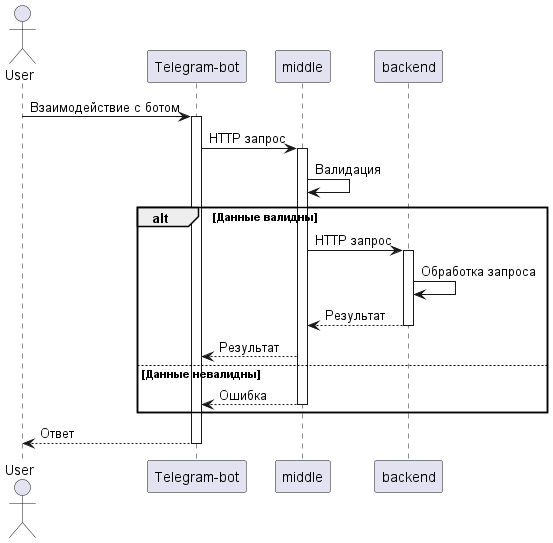
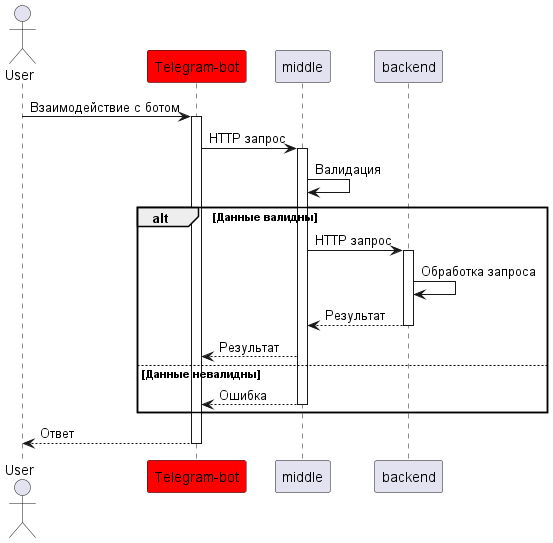
Тесты

Changed region(s): [[0.2459, 0.825, 0.4611, 0.9134], [0.2459, 0.0884, 0.4611, 0.1768]]

diff --git a/src/test/java/ru/omon4412/minibank/command/CreateAccountCommandTest.java b/src/test/java/ru/omon4412/minibank/command/CreateAccountCommandTest.java
@@ -1,0 +1,87 @@
+package ru.omon4412.minibank.command;
+
+import org.junit.jupiter.api.Test;
+import org.junit.jupiter.api.extension.ExtendWith;
+import org.mockito.InjectMocks;
+import org.mockito.Mock;
+import org.mockito.junit.jupiter.MockitoExtension;
+import org.telegram.telegrambots.meta.api.objects.Message;
+import org.telegram.telegrambots.meta.api.objects.Update;
+import org.telegram.telegrambots.meta.api.objects.User;
+import ru.omon4412.minibank.dto.NewAccountDto;
+import ru.omon4412.minibank.model.ResponseResult;
+import ru.omon4412.minibank.model.TelegramMessage;
+import ru.omon4412.minibank.service.MiddleServiceGateway;
+
+import static org.junit.jupiter.api.Assertions.assertEquals;
+import static org.mockito.Mockito.*;
+
+@ExtendWith(MockitoExtension.class)
+class CreateAccountCommandTest {
+    @Mock
+    private MiddleServiceGateway middleServiceGateway;
+
+    @InjectMocks
+    private CreateAccountCommand createAccountCommand;
+
+    @Test
+    void test_ExecuteWithoutUsername() {
+        Update update = mockUpdate(null, "/createaccount На отдых", 1L);
+
+        TelegramMessage result = createAccountCommand.execute(update);
+
+        assertEquals("Для работы с ботом вам нужен telegram username", result.message());
+    }
+
+    @Test
+    void test_ExecuteWithWrongFormat() {
+        Update update = mockUpdate("testuser", "/createaccount", 1L);
+
+        TelegramMessage result = createAccountCommand.execute(update);
+
+        assertEquals("Неправильный формат команды. Используйте: /createaccount [название]", result.message());
+    }
+
+    @Test
+    void test_ExecuteWithEmptyAccountName() {
+        Update update = mockUpdate("testuser", "/createaccount ", 1L);
+
+        TelegramMessage result = createAccountCommand.execute(update);
+
+        assertEquals("Пожалуйста, укажите название счёта.", result.message());
+    }
+
+    @Test
+    void test_ExecuteWithValidData() {
+        Update update = mockUpdate("testuser", "/createaccount На отдых", 1L);
+        ResponseResult responseResult = new ResponseResult(true, "Счёт создан успешно");
+        NewAccountDto newAccountDto = new NewAccountDto();
+        newAccountDto.setAccountName("На отдых");
+        when(middleServiceGateway.createAccount(newAccountDto, 0L))
+                .thenReturn(responseResult);
+
+        TelegramMessage result = createAccountCommand.execute(update);
+
+        assertEquals("Счёт создан успешно", result.message());
+    }
+
+    private Update mockUpdate(String username, String text, Long chatId) {
+        Update update = mock(Update.class);
+        Message message = mock(Message.class);
+        User user = mock(User.class);
+
+        when(update.getMessage()).thenReturn(message);
+        when(message.getFrom()).thenReturn(user);
+        if (username != null) {
+            when(user.getUserName()).thenReturn(username);
+        }
+        if (text != null) {
+            lenient().when(message.getText()).thenReturn(text);
+        }
+        if (chatId != null) {
+            when(message.getChatId()).thenReturn(chatId);
+        }
+
+        return update;
+    }
+}

diff --git a/src/test/java/ru/omon4412/minibank/command/RegisterCommandTest.java b/src/test/java/ru/omon4412/minibank/command/RegisterCommandTest.java
@@ -1,0 +1,73 @@
+package ru.omon4412.minibank.command;
+
+import org.junit.jupiter.api.Test;
+import org.junit.jupiter.api.extension.ExtendWith;
+import org.mockito.InjectMocks;
+import org.mockito.Mock;
+import org.mockito.junit.jupiter.MockitoExtension;
+import org.telegram.telegrambots.meta.api.objects.Message;
+import org.telegram.telegrambots.meta.api.objects.Update;
+import org.telegram.telegrambots.meta.api.objects.User;
+import ru.omon4412.minibank.dto.UserRequestDto;
+import ru.omon4412.minibank.model.ResponseResult;
+import ru.omon4412.minibank.model.TelegramMessage;
+import ru.omon4412.minibank.service.MiddleServiceGateway;
+
+import static org.junit.jupiter.api.Assertions.assertEquals;
+import static org.mockito.ArgumentMatchers.any;
+import static org.mockito.Mockito.*;
+
+@ExtendWith(MockitoExtension.class)
+class RegisterCommandTest {
+    @Mock
+    private MiddleServiceGateway middleServiceGateway;
+
+    @InjectMocks
+    private RegisterCommand registerCommand;
+
+    @Test
+    void test_ExecuteWithValidUsername() {
+        Update update = mockUpdate("testuser", 1L);
+        UserRequestDto userRequestDto = new UserRequestDto();
+        userRequestDto.setUserId(1L);
+        userRequestDto.setUserName("testuser");
+        ResponseResult responseResult = new ResponseResult(true, "Вы зарегистрированы!");
+
+        when(middleServiceGateway.registerUser(any(UserRequestDto.class))).thenReturn(responseResult);
+
+        TelegramMessage result = registerCommand.execute(update);
+
+        assertEquals("Вы зарегистрированы!", result.message());
+        verify(middleServiceGateway, times(1)).registerUser(any(UserRequestDto.class));
+    }
+
+    @Test
+    void test_ExecuteWithoutUsername() {
+        Update update = mockUpdate(null, 1L);
+
+        TelegramMessage result = registerCommand.execute(update);
+
+        assertEquals("Для работы с ботом вам нужен telegram username", result.message());
+        verify(middleServiceGateway, never()).registerUser(any(UserRequestDto.class));
+    }
+
+    private Update mockUpdate(String username, Long userId) {
+        Update update = mock(Update.class);
+        Message message = mock(Message.class);
+        User user = mock(User.class);
+
+        when(update.getMessage()).thenReturn(message);
+        when(message.getFrom()).thenReturn(user);
+
+        if (username != null) {
+            when(user.getUserName()).thenReturn(username);
+        }
+
+        if (userId != null) {
+            when(user.getId()).thenReturn(userId);
+        }
+        when(message.getChatId()).thenReturn(userId);
+
+        return update;
+    }
+}

diff --git a/src/test/java/ru/omon4412/minibank/command/CommandHandlerTest.java b/src/test/java/ru/omon4412/minibank/command/CommandHandlerTest.java
@@ -1,0 +1,70 @@
+package ru.omon4412.minibank.command;
+
+import org.junit.jupiter.api.BeforeEach;
+import org.junit.jupiter.api.Test;
+import org.junit.jupiter.api.extension.ExtendWith;
+import org.mockito.Mock;
+import org.mockito.junit.jupiter.MockitoExtension;
+import org.telegram.telegrambots.meta.api.objects.Update;
+import ru.omon4412.minibank.model.TelegramMessage;
+import ru.omon4412.minibank.service.MessageService;
+
+import java.util.List;
+
+import static org.junit.jupiter.api.Assertions.assertThrows;
+import static org.mockito.Mockito.*;
+
+@ExtendWith(MockitoExtension.class)
+class CommandHandlerTest {
+
+    @Mock
+    private MessageService messageService;
+
+    @Mock
+    private UnknownCommand unknownCommand;
+
+    @Mock
+    private Command knownCommand;
+
+    private CommandHandler commandHandler;
+
+    @BeforeEach
+    void setUp() {
+        when(knownCommand.getCommand()).thenReturn("/doanything");
+        commandHandler = new CommandHandler(List.of(knownCommand), unknownCommand, messageService);
+    }
+
+    @Test
+    void test_HandleKnownCommand() {
+        Update update = new Update();
+        TelegramMessage telegramMessage = new TelegramMessage(1L, "/doanything");
+
+        when(knownCommand.execute(update)).thenReturn(telegramMessage);
+
+        commandHandler.handleCommand("/doanything", update);
+
+        verify(knownCommand, times(1)).execute(update);
+        verify(messageService, times(1)).sendMessage(telegramMessage);
+    }
+
+    @Test
+    void test_HandleUnknownCommand() {
+        Update update = new Update();
+        TelegramMessage telegramMessage = new TelegramMessage(1L, "/testest");
+
+        when(unknownCommand.execute(update)).thenReturn(telegramMessage);
+
+        commandHandler.handleCommand("/unknown", update);
+
+        verify(unknownCommand, times(1)).execute(update);
+        verify(messageService, times(1)).sendMessage(telegramMessage);
+    }
+
+    @Test
+    void test_DuplicateCommandHandlerInitialization() {
+        Command duplicateCommand = mock(Command.class);
+        when(duplicateCommand.getCommand()).thenReturn("/doanything");
+
+        assertThrows(IllegalArgumentException.class, () -> new CommandHandler(List.of(knownCommand, duplicateCommand), unknownCommand, messageService));
+    }
+}

diff --git a/src/test/java/ru/omon4412/minibank/service/MessageServiceImplTest.java b/src/test/java/ru/omon4412/minibank/service/MessageServiceImplTest.java
@@ -1,0 +1,44 @@
+package ru.omon4412.minibank.service;
+
+import org.junit.jupiter.api.Test;
+import org.junit.jupiter.api.extension.ExtendWith;
+import org.mockito.InjectMocks;
+import org.mockito.Mock;
+import org.mockito.junit.jupiter.MockitoExtension;
+import org.telegram.telegrambots.meta.api.methods.send.SendMessage;
+import org.telegram.telegrambots.meta.api.objects.Message;
+import org.telegram.telegrambots.meta.exceptions.TelegramApiException;
+import ru.omon4412.minibank.bot.MiniBankBot;
+import ru.omon4412.minibank.model.TelegramMessage;
+
+import static org.mockito.ArgumentMatchers.any;
+import static org.mockito.Mockito.*;
+
+@ExtendWith(MockitoExtension.class)
+class MessageServiceImplTest {
+    @Mock
+    private MiniBankBot miniBankBot;
+
+    @InjectMocks
+    private MessageServiceImpl messageService;
+
+    @Test
+    void test_sendMessage_success() throws TelegramApiException {
+        TelegramMessage event = new TelegramMessage(1L, "Test");
+        Message message = new Message();
+        when(miniBankBot.execute(any(SendMessage.class))).thenReturn(message);
+
+        messageService.sendMessage(event);
+
+        verify(miniBankBot, times(1)).execute(any(SendMessage.class));
+    }
+
+    @Test
+    void test_sendMessage_whenMessageIsBlank() throws TelegramApiException {
+        TelegramMessage event = new TelegramMessage(1L, "    ");
+
+        messageService.sendMessage(event);
+
+        verify(miniBankBot, times(0)).execute(any(SendMessage.class));
+    }
+}

diff --git a/src/test/java/ru/omon4412/minibank/service/AccountServiceImplTest.java b/src/test/java/ru/omon4412/minibank/service/AccountServiceImplTest.java
@@ -67,4 +67,16 @@ class AccountServiceImplTest {
         assertFalse(result.isSuccess());
         assertTrue(result.getMessage().contains("Сначала нужно зарегистрироваться."));
     }
+
+    @Test
+    void test_whenServiceIsNotAvailable() {
+        FeignException.InternalServerError feignClientException = new FeignException.InternalServerError(
+                "Сервис недоступен. Пожалуйста, попробуйте позже.", Request.create(Request.HttpMethod.POST, "/users/1/accounts", Map.of(), new byte[0],
+                StandardCharsets.UTF_8), null, null);
+        when(middleServiceClient.createAccount(any(NewAccountDto.class), any(Long.class)))
+                .thenThrow(feignClientException);
+        ResponseResult result = accountServiceImpl.createAccount(new NewAccountDto(), 1L);
+        assertFalse(result.isSuccess());
+        assertTrue(result.getMessage().contains("Сервис недоступен. Пожалуйста, попробуйте позже."));
+    }
 }

diff --git a/src/test/java/ru/omon4412/minibank/service/UserRegistrationServiceImplTest.java b/src/test/java/ru/omon4412/minibank/service/UserRegistrationServiceImplTest.java
@@ -61,20 +61,6 @@ class UserRegistrationServiceImplTest {
     }
 
     @Test
-    void test_registerUser_when() {
-        UserRequestDto userRequestDto = new UserRequestDto();
-        ResponseEntity<Void> responseEntity = ResponseEntity.status(415).build();
-        when(middleServiceClient.registerUser(any(UserRequestDto.class))).thenReturn(responseEntity);
-
-        ResponseResult result = userRegistrationService.registerUser(userRequestDto);
-
-        assertFalse(result.isSuccess());
-        assertTrue(result.getMessage().contains("Ошибка"));
-
-        verify(middleServiceClient, times(1)).registerUser(any(UserRequestDto.class));
-    }
-
-    @Test
     void test_registerUser_whenServerIsDown() {
         UserRequestDto userRequestDto = new UserRequestDto();
         when(middleServiceClient.registerUser(any(UserRequestDto.class))).thenThrow(RetryableException.class);

diff --git a/src/main/java/ru/omon4412/minibank/command/CreateAccountCommand.java b/src/main/java/ru/omon4412/minibank/command/CreateAccountCommand.java
@@ -32,7 +32,7 @@ class CreateAccountCommand implements Command {
         String accountName = messageText.substring((Commands.CREATEACCOUNT.getCommand() + " ").length()).trim();
         if (accountName.isEmpty()) {
             return new TelegramMessage(update.getMessage().getChatId(),
-                    "Пожалуйста, укажите название аккаунта.");
+                    "Пожалуйста, укажите название счёта.");
         }
 
         NewAccountDto newAccountDto = new NewAccountDto();

diff --git a/README.md b/README.md
@@ -16,7 +16,7 @@
 @startuml
 
 actor User as user
-participant "Telegram-bot" as frontend
+participant "Telegram-bot" as frontend #red
 participant "middle" as middle
 participant "backend" as backend
 
